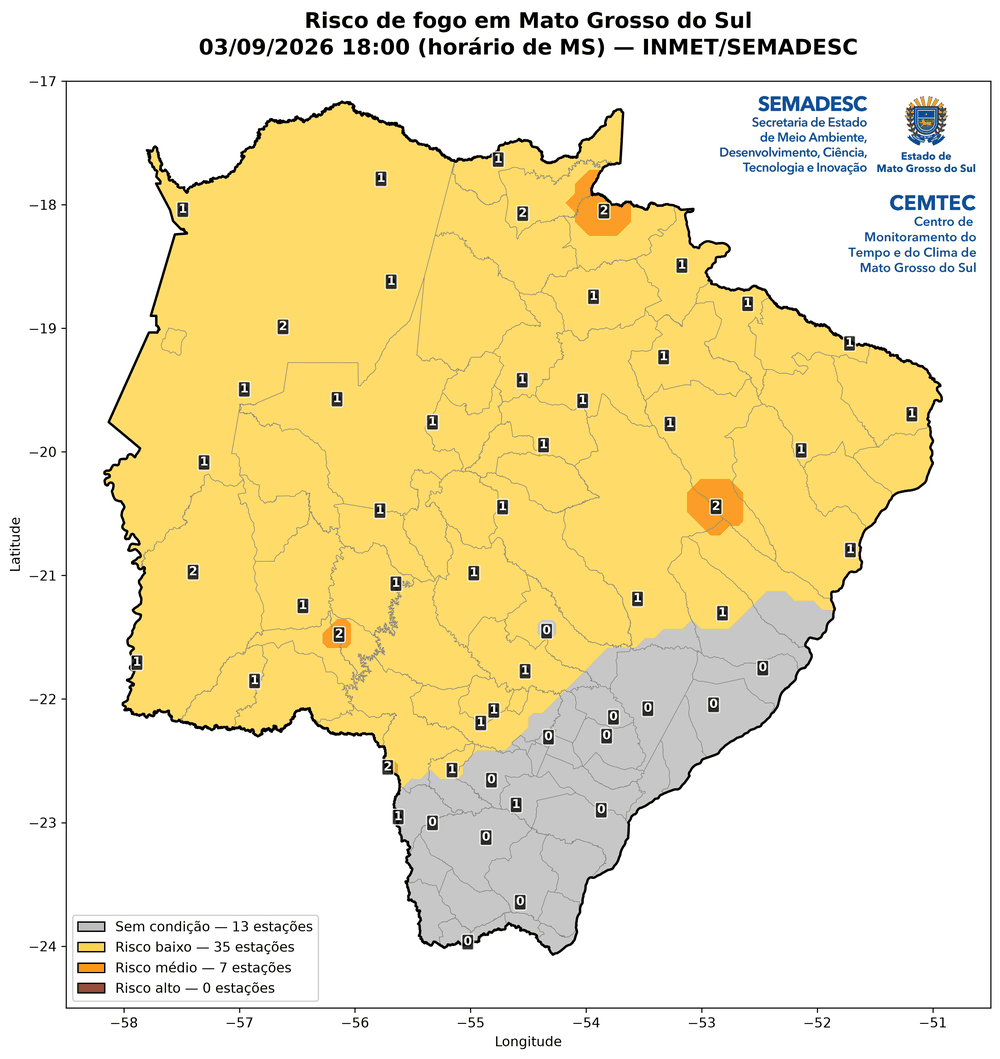
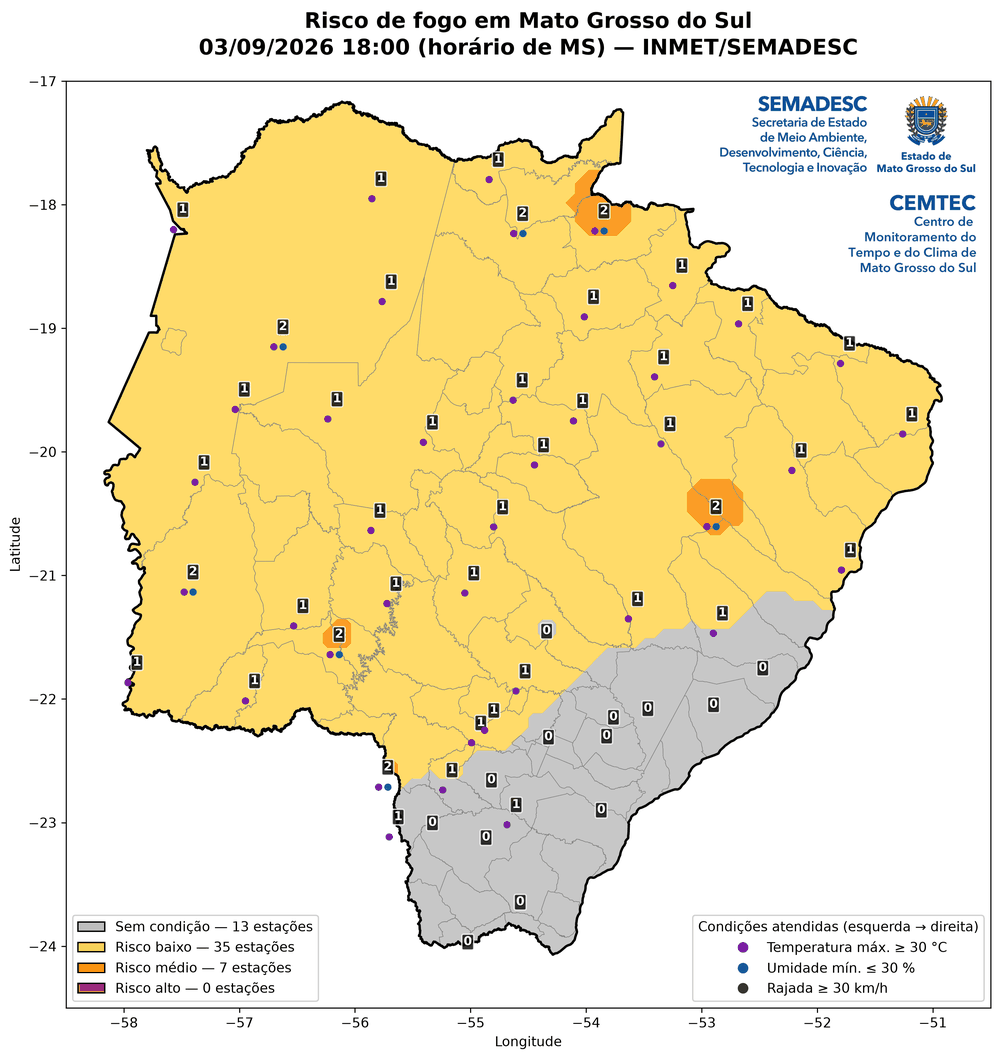
Mostra no mapa horário quais condições cada estação atendeu
Abaixo do nível de cada estação, o mapa horário passa a trazer um ponto
para cada condição atendida naquela hora: roxo para a temperatura, azul
para a umidade e verde para a rajada.

Cada condição ocupa sempre a mesma posição — temperatura à esquerda,
umidade no meio, rajada à direita —, e não apenas uma cor. Assim a
condição continua identificável por quem não distingue as cores, que é o
caso do daltonismo vermelho-verde, em que roxo e azul se parecem. As cores
escolhidas ficam fora da paleta de risco (cinza, amarelo, laranja e
vermelho), para não confundir um ponto com o nível do fundo.

Os mapas de síntese não recebem os pontos: o nível máximo e as horas em
risco alto juntam horas diferentes, e as condições de uma única hora não
representariam o dia.

Os pontos entraram no mapas.py como Indicadores, um recurso genérico que
outros produtos podem usar, com as cores em config.CORES_CONDICOES.

README, exemplos e docs/questoes_meteorologia.md atualizados.

Testes: 100, incluindo um que garante a posição fixa de cada indicador.

Changed region(s): [[0.713, 0.8725, 0.992, 0.9348], [0.899, 0.0935, 0.93, 0.1246], [0.372, 0.7167, 0.403, 0.7479]]

diff --git a/modulos/produtos/risco_fogo.py b/modulos/produtos/risco_fogo.py
@@ -23,7 +23,7 @@ import pandas as pd
 
 from .. import calculos, config, excel, inmet, mapas
 from ..config import Periodo
-from ..mapas import BaseCartografica, EspecClasses, EspecMapa
+from ..mapas import BaseCartografica, EspecClasses, EspecMapa, Indicadores
 
 NOME = "risco_fogo"
 TITULO = "Risco meteorológico de fogo — regra 30-30-30"
@@ -33,17 +33,23 @@ ABA = "Risco"
 COLUNA_NIVEL = "Nível Máximo"
 COLUNA_HORAS_ALTO = "Horas em Risco Alto"
 COLUNA_NIVEL_HORA = "Nível na Hora"
+COLUNAS_CONDICOES = ["Temperatura Atendida", "Umidade Atendida", "Rajada Atendida"]
 NIVEL_ALTO = 3
 
 
 # =====================================================
 # A REGRA 30-30-30
 # =====================================================
+def condicoes_atendidas(temp_max, umidade_min, rajada_kmh) -> tuple:
+    """Cada uma das três condições (True onde é atendida), na ordem temperatura, umidade e rajada."""
+    return (np.asarray(temp_max) >= config.LIMIAR_TEMP_MAX,
+            np.asarray(umidade_min) <= config.LIMIAR_UMIDADE_MIN,
+            np.asarray(rajada_kmh) >= config.LIMIAR_RAJADA)
+
+
 def contar_condicoes(temp_max, umidade_min, rajada_kmh):
     """Quantas das três condições são atendidas (0 a 3). Funciona com números, séries ou grades."""
-    return ((np.asarray(temp_max) >= config.LIMIAR_TEMP_MAX).astype(int)
-            + (np.asarray(umidade_min) <= config.LIMIAR_UMIDADE_MIN).astype(int)
-            + (np.asarray(rajada_kmh) >= config.LIMIAR_RAJADA).astype(int))
+    return sum(condicao.astype(int) for condicao in condicoes_atendidas(temp_max, umidade_min, rajada_kmh))
 
 
 def leituras_validas(dados: pd.DataFrame, periodo: Periodo) -> pd.DataFrame:
@@ -133,7 +139,10 @@ def estacoes_na_hora(coletados: list, hora) -> pd.DataFrame:
         })
     estacoes = pd.DataFrame(linhas)
     if not estacoes.empty:
-        estacoes[COLUNA_NIVEL_HORA] = contar_condicoes(estacoes["TEM_MAX"], estacoes["UMD_MIN"], estacoes["rajada_kmh"])
+        atendidas = condicoes_atendidas(estacoes["TEM_MAX"], estacoes["UMD_MIN"], estacoes["rajada_kmh"])
+        for coluna, atendida in zip(COLUNAS_CONDICOES, atendidas):
+            estacoes[coluna] = atendida
+        estacoes[COLUNA_NIVEL_HORA] = estacoes[COLUNAS_CONDICOES].sum(axis=1)
     return estacoes
 
 
@@ -187,6 +196,14 @@ def horas_para_mapear(horas: dict, todas_as_horas: bool = False) -> dict:
 # =====================================================
 def _espec_classes(titulo: str, subtitulo: str, arquivo: str) -> EspecClasses:
     return EspecClasses(titulo, subtitulo, arquivo, config.CORES_RISCO, config.ROTULOS_RISCO)
+
+
+def _indicadores_condicoes() -> Indicadores:
+    """Pontos das condições atendidas nos mapas horários: temperatura à esquerda, umidade no meio, rajada à direita."""
+    rotulos = [f"Temperatura máx. ≥ {config.LIMIAR_TEMP_MAX:g} °C",
+               f"Umidade mín. ≤ {config.LIMIAR_UMIDADE_MIN:g} %",
+               f"Rajada ≥ {config.LIMIAR_RAJADA:g} km/h"]
+    return Indicadores(COLUNAS_CONDICOES, rotulos, config.CORES_CONDICOES, "Condições atendidas (esquerda → direita)")
 
 
 def _niveis_continuos(grade: np.ndarray):
@@ -249,7 +266,7 @@ def _mapas_horarios(horas: dict, base: BaseCartografica, pasta: Path, todas_as_h
                                f"Mapa_Risco_Fogo_{config.UF}")
         estacoes = mapas.preparar_pontos(avaliada.estacoes, COLUNA_NIVEL_HORA, espec.subtitulo)
         mapas.mapa_classes_interpolado(avaliada.grade, estacoes, COLUNA_NIVEL_HORA, espec, base,
-                                       pasta / f"{espec.arquivo}_{local:%Y%m%d_%H}h.png")
+                                       pasta / f"{espec.arquivo}_{local:%Y%m%d_%H}h.png", _indicadores_condicoes())
 
 
 # =====================================================

diff --git a/modulos/mapas.py b/modulos/mapas.py
@@ -49,6 +49,25 @@ class EspecClasses:
     rotulos: list[str]
 
 
+@dataclass(frozen=True)
+class Indicadores:
+    """Pontos coloridos abaixo de cada estação, um para cada coluna verdadeira (ex.: condições atendidas).
+
+    Cada indicador ocupa sempre a mesma posição, da esquerda para a direita na ordem de `colunas`.
+    """
+
+    colunas: list[str]  # colunas booleanas da tabela de estações
+    rotulos: list[str]
+    cores: list[str]
+    titulo: str
+
+
+# Pontos dos indicadores: distância entre posições e descida abaixo do rótulo (em graus) e área de cada ponto (pt²)
+PASSO_INDICADORES = 0.08
+DESCIDA_INDICADORES = 0.16
+TAMANHO_INDICADORES = 30
+
+
 @dataclass
 class BaseCartografica:
     """Camadas, grade e logos carregados uma única vez e reaproveitados em todos os mapas."""
@@ -183,8 +202,11 @@ def mapa_classes_pontual(gdf, coluna: str, espec: EspecClasses, base: BaseCartog
 
 
 def mapa_classes_interpolado(grade, gdf, coluna: str, espec: EspecClasses, base: BaseCartografica,
-                             caminho: Path) -> None:
-    """Superfície já classificada (0 a n-1) recortada ao estado, com as estações por cima."""
+                             caminho: Path, indicadores: Indicadores | None = None) -> None:
+    """Superfície já classificada (0 a n-1) recortada ao estado, com as estações por cima.
+
+    Com `indicadores`, desenha também os pontos abaixo de cada estação e a legenda deles.
+    """
     fig, ax = _nova_figura((14, 12))
     # Uma faixa por classe: as fronteiras ficam no meio do caminho entre dois níveis inteiros
     limites = np.arange(len(espec.cores) + 1) - 0.5
@@ -198,6 +220,8 @@ def mapa_classes_interpolado(grade, gdf, coluna: str, espec: EspecClasses, base:
     _rotular(ax, gdf, classes.map(str), tamanho_fonte=9, cor="white",
              fundo="black", borda="white", opacidade=0.8)
     _legenda_classes(ax, espec, classes)
+    if indicadores is not None:
+        _desenhar_indicadores(ax, gdf, indicadores)
     _finalizar(fig, ax, espec, base, caminho)
 
 
@@ -238,6 +262,27 @@ def _legenda_classes(ax, espec: EspecClasses, classes: pd.Series) -> None:
         for indice, (cor, rotulo) in enumerate(zip(espec.cores, espec.rotulos))
     ]
     ax.legend(handles=entradas, loc="lower left", fontsize=10, framealpha=0.9)
+
+
+def _desenhar_indicadores(ax, gdf, indicadores: Indicadores) -> None:
+    """Um ponto por indicador verdadeiro, abaixo da estação, e a legenda dos indicadores no canto inferior direito.
+
+    A posição de cada indicador é fixa: mesmo quem não distingue as cores identifica qual ponto é qual.
+    """
+    quantidade = len(indicadores.colunas)
+    for posicao, (coluna, cor) in enumerate(zip(indicadores.colunas, indicadores.cores)):
+        marcadas = gdf[gdf[coluna].astype(bool)]
+        deslocamento = (posicao - (quantidade - 1) / 2) * PASSO_INDICADORES
+        ax.scatter(marcadas.geometry.x + deslocamento, marcadas.geometry.y - DESCIDA_INDICADORES,
+                   s=TAMANHO_INDICADORES, color=cor, linewidths=0, zorder=8)
+
+    legenda_existente = ax.get_legend()
+    if legenda_existente is not None:
+        ax.add_artist(legenda_existente)  # sem isso, a legenda nova substituiria a das classes
+    entradas = [Line2D([], [], linestyle="", marker="o", markersize=8, markerfacecolor=cor, markeredgewidth=0,
+                       label=rotulo) for rotulo, cor in zip(indicadores.rotulos, indicadores.cores)]
+    ax.legend(handles=entradas, loc="lower right", fontsize=10, title=indicadores.titulo, title_fontsize=10,
+              framealpha=0.9)
 
 
 def _faixa_de_cores(valores: pd.Series) -> tuple[float, float]:

diff --git a/tests/test_risco_fogo.py b/tests/test_risco_fogo.py
@@ -148,21 +148,28 @@ def test_criterio_olha_as_estacoes_e_nao_a_superficie():
 
 # ---------- Mapas horários ----------
 
-def test_estacoes_da_hora_trazem_o_nivel_daquela_hora(serie):
-    """Nos mapas horários, cada estação leva o nível da hora, e não o máximo do dia."""
+def test_estacoes_da_hora_trazem_as_condicoes_e_o_nivel_daquela_hora(serie):
+    """Nos mapas horários, cada estação leva as condições e o nível da hora, e não o máximo do dia."""
     dados = serie("2026-09-16", "2026-09-17 05:00", TEM_MAX=FRIO, UMD_MIN=UMIDO, VEN_RAJ=CALMO)
     dados.loc[dados["dt_utc"] == utc("2026-09-16 18:00"), ["TEM_MAX", "UMD_MIN", "VEN_RAJ"]] = [QUENTE, SECO, VENTOSO]
+    dados.loc[dados["dt_utc"] == utc("2026-09-16 20:00"), "UMD_MIN"] = SECO
     coletados = [(ESTACAO, risco_fogo.leituras_validas(dados, DIA))]
 
-    assert risco_fogo.estacoes_na_hora(coletados, utc("2026-09-16 18:00"))["Nível na Hora"].tolist() == [3]
-    assert risco_fogo.estacoes_na_hora(coletados, utc("2026-09-16 15:00"))["Nível na Hora"].tolist() == [0]
+    def na_hora(texto):
+        linha = risco_fogo.estacoes_na_hora(coletados, utc(texto)).iloc[0]
+        return [bool(linha[coluna]) for coluna in risco_fogo.COLUNAS_CONDICOES], linha["Nível na Hora"]
+
+    assert na_hora("2026-09-16 18:00") == ([True, True, True], 3)
+    assert na_hora("2026-09-16 20:00") == ([False, True, False], 1)  # só a umidade
+    assert na_hora("2026-09-16 15:00") == ([False, False, False], 0)
 
 
 def test_mapa_horario_recebe_as_estacoes_da_hora(monkeypatch, tmp_path):
     """Rótulos e legenda do mapa horário vêm das estações daquela hora."""
     desenhados = []
     monkeypatch.setattr(risco_fogo.mapas, "mapa_classes_interpolado",
-                        lambda grade, gdf, coluna, espec, base, caminho: desenhados.append(gdf[coluna].tolist()))
+                        lambda grade, gdf, coluna, espec, base, caminho, indicadores=None:
+                        desenhados.append(gdf[coluna].tolist()))
     estacoes = pd.DataFrame({"Estação": ["A", "B"], "Latitude": [-20.0, -21.0], "Longitude": [-55.0, -54.0],
                              "Nível na Hora": [0, 2]})
     horas = {utc("2026-09-16 15:00"): risco_fogo.HoraAvaliada(np.zeros((2, 2)), estacoes)}

diff --git a/tests/test_mapas.py b/tests/test_mapas.py
@@ -1,4 +1,5 @@
-"""Base cartográfica dos mapas interpolados: máscara da grade e recorte pelo contorno do estado."""
+"""Mapas: base cartográfica (máscara da grade e recorte pelo estado), estações e indicadores."""
+import matplotlib.pyplot as plt
 import numpy as np
 import pandas as pd
 import pytest
@@ -41,6 +42,31 @@ def test_recorte_segue_o_contorno_do_estado(base):
 def test_estacoes_com_zero_entram_no_mapa():
     tabela = ESTACOES.assign(**{"Chuva (mm)": [0.0, 5.0, 0.0, 12.5, 0.0]})
     assert len(mapas._preparar_dados(tabela, CHUVA)) == 5
+
+
+def test_indicadores_ocupam_sempre_a_mesma_posicao():
+    """Cada indicador tem posição fixa sob a estação, mesmo quando os outros não aparecem."""
+    tabela = pd.DataFrame({
+        "Latitude": [-20.0, -22.0], "Longitude": [-55.0, -53.0], "Nível": [2, 1],
+        "A": [True, False], "B": [False, True], "C": [True, False],
+    })
+    indicadores = mapas.Indicadores(["A", "B", "C"], ["a", "b", "c"], ["purple", "blue", "green"], "teste")
+    fig, ax = plt.subplots()
+    mapas._desenhar_indicadores(ax, mapas.preparar_pontos(tabela, "Nível"), indicadores)
+    posicoes = [colecao.get_offsets() for colecao in ax.collections]
+    plt.close(fig)
+
+    passo, descida = mapas.PASSO_INDICADORES, mapas.DESCIDA_INDICADORES
+    # A primeira estação tem A e C: se os pontos fossem centralizados, ficariam a meio passo da estação,
+    # e não a um passo inteiro para cada lado
+    esperadas = [
+        [(-55.0 - passo, -20.0 - descida)],  # A: só a primeira estação, à esquerda
+        [(-53.0, -22.0 - descida)],          # B: só a segunda, no meio
+        [(-55.0 + passo, -20.0 - descida)],  # C: só a primeira, à direita
+    ]
+    assert len(posicoes) == 3
+    for obtida, esperada in zip(posicoes, esperadas):
+        np.testing.assert_allclose(obtida, esperada)
 
 
 def test_dia_sem_chuva_em_nenhuma_estacao_ainda_gera_os_mapas(monkeypatch, tmp_path):

diff --git a/modulos/config.py b/modulos/config.py
@@ -88,6 +88,8 @@ LIMIAR_RAJADA = 30.0       # km/h — condição atendida com rajada >= este val
 CORES_RISCO = ["#bdbdbd", "#ffd54f", "#fb8c00", "#d32f2f"]  # cinza, amarelo, laranja, vermelho
 ROTULOS_RISCO = ["Sem condição", "Risco baixo", "Risco médio", "Risco alto"]
 NIVEL_MAPA_HORARIO = 2     # nível mínimo, em alguma estação, para gerar o mapa daquela hora
+# Pontos das condições atendidas nos mapas horários, na ordem temperatura, umidade e rajada (fora da paleta de risco)
+CORES_CONDICOES = ["#7b1fa2", "#1565c0", "#1b5e20"]  # roxo, azul, verde-escuro
 
 
 # =====================================================

diff --git a/README.md b/README.md
@@ -310,11 +310,13 @@ saida/risco_fogo/dia/20260903/
 | `Mapa_Risco_Fogo_Nivel_MS_<datas>_interpolado.png` | **Nível máximo — interpolado:** o mesmo, sobre o estado inteiro |
 | `Mapa_Risco_Fogo_Horas_MS_<datas>.png` | **Horas em risco alto — pontual:** quantas horas cada estação passou no nível 3 |
 | `Mapa_Risco_Fogo_Horas_MS_<datas>_interpolado.png` | **Horas em risco alto — interpolado:** o mesmo, sobre o estado inteiro |
-| `horas/Mapa_Risco_Fogo_MS_<data>_<hora>h.png` | **Mapa horário** (só interpolado): o nível de risco naquela hora |
+| `horas/Mapa_Risco_Fogo_MS_<data>_<hora>h.png` | **Mapa horário** (só interpolado): o nível de risco naquela hora, com o nível de cada estação e os pontos das condições que ela atendeu |
 
 O **nível máximo** mostra o pico; as **horas em risco alto** mostram a duração — ficar 6 horas em 30-30-30 é bem diferente de ficar 1 hora. Em dias em que nenhuma estação chega ao nível 3, os mapas de horas ficam zerados.
 
 **Quais horas ganham mapa próprio:** por padrão, só as horas em que **pelo menos uma estação** chegou ao risco médio ou alto (nível ≥ 2); num dia ameno, a pasta `horas/` nem é criada. Com `--hrtodas`, saem todas as horas, até 24 num dia. Cada mapa horário leva a hora em que a leitura termina: o das 14h mostra a hora das 13 h às 14 h.
+
+**Pontos das condições nos mapas horários:** o número de cada estação é o nível dela **naquela hora**, e abaixo dele aparece um ponto para cada condição atendida — roxo para temperatura, azul para umidade e verde para rajada. Cada condição ocupa sempre a mesma posição (temperatura à esquerda, umidade no meio, rajada à direita), então dá para identificá-la mesmo sem distinguir as cores. Os mapas de síntese não têm os pontos: eles juntam horas diferentes, e as condições de uma única hora não representariam o dia.
 
 Colunas da planilha:
 
@@ -347,7 +349,7 @@ A evolução ao longo do dia, nos mapas horários — o risco sobe pela manhã, 
   - `/estacoes/T` — lista de estações automáticas (sem token)
   - `/token/estacao/{data_ini}/{data_fim}/{codigo}/{token}` — dados horários de uma estação
   - Variáveis usadas: `TEM_MAX`, `UMD_MIN` e `VEN_RAJ`
-- **Limiares, cores e rótulos** ficam em [`modulos/config.py`](modulos/config.py): `LIMIAR_TEMP_MAX`, `LIMIAR_UMIDADE_MIN`, `LIMIAR_RAJADA`, `CORES_RISCO`, `ROTULOS_RISCO` e `NIVEL_MAPA_HORARIO`.
+- **Limiares, cores e rótulos** ficam em [`modulos/config.py`](modulos/config.py): `LIMIAR_TEMP_MAX`, `LIMIAR_UMIDADE_MIN`, `LIMIAR_RAJADA`, `CORES_RISCO`, `ROTULOS_RISCO`, `NIVEL_MAPA_HORARIO` e `CORES_CONDICOES` (cores dos pontos das condições).
 - **Shapefiles**: `MS_UF_2022` (limite estadual, malha IBGE 2022) e `MS_mun_simplificado` (limites dos 79 municípios). Detalhes em [Estrutura do repositório](#shapefiles).
 
 #### Notas metodológicas
@@ -376,6 +378,7 @@ O método foi definido em **16/09/2026** a partir do pedido da equipe (questões
 - Mapas de síntese (nível máximo e horas em risco alto) em versão pontual e interpolada; mapas horários só interpolados, filtrados pelo nível ≥ 2 nas estações, ou todos com `--hrtodas`.
 - As três condições têm o mesmo peso; estações sem uma das variáveis ficam de fora.
 - Cores cinza, amarelo, laranja e vermelho (sem o par verde/vermelho, por causa do daltonismo).
+- Nos mapas horários, pontos das condições atendidas abaixo de cada estação, em posição fixa (definido em 17/09/2026).
 
 ⚠ **Ainda aguardam confirmação da meteorologia:** a aproximação de simultaneidade dentro da hora, a confiabilidade da rajada interpolada, os limiares (≥ 30 °C, ≤ 30 %, ≥ 30 km/h) e o critério do nível laranja para gerar mapa horário.
 

diff --git a/docs/questoes_meteorologia.md b/docs/questoes_meteorologia.md
@@ -133,4 +133,6 @@ As decisões foram tomadas com o programador em 16/09/2026. Os pontos marcados c
 - **Cores:** cinza (0), amarelo (1), laranja (2), vermelho (3). O par verde/vermelho foi evitado por causa de daltonismo.
 - **Planilha:** por estação, o nível máximo, quantas horas em cada nível e os valores com horário que dispararam cada condição — é o que permite auditar por que uma estação ficou vermelha.
 
+**Decisão (17/09/2026):** nos mapas horários, cada estação mostra o seu nível **naquela hora** e, abaixo do número, um ponto para cada condição atendida — roxo para temperatura, azul para umidade e verde para rajada —, sempre na mesma posição (temperatura à esquerda, umidade no meio, rajada à direita), para que a condição seja identificável mesmo por quem não distingue as cores. Os mapas de síntese (nível máximo e horas em risco alto) não recebem os pontos, porque juntam horas diferentes.
+
 ⚠ **A confirmar:** os limiares (≥ 30 °C, ≤ 30 %, ≥ 30 km/h) e o critério de gerar mapa horário a partir do nível laranja.
